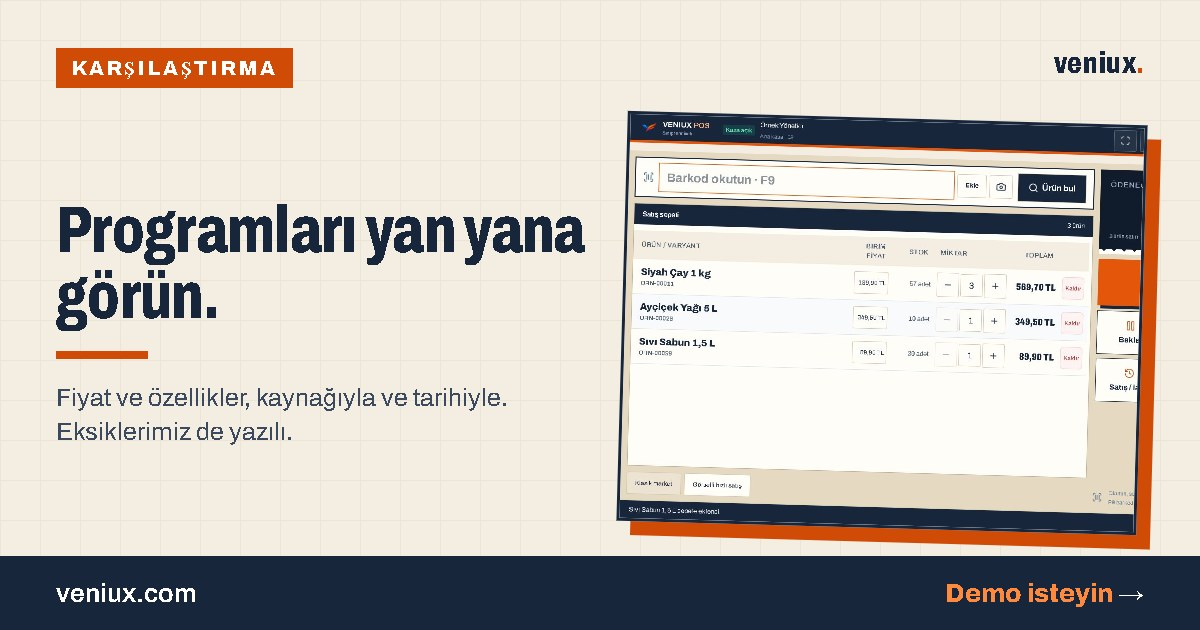
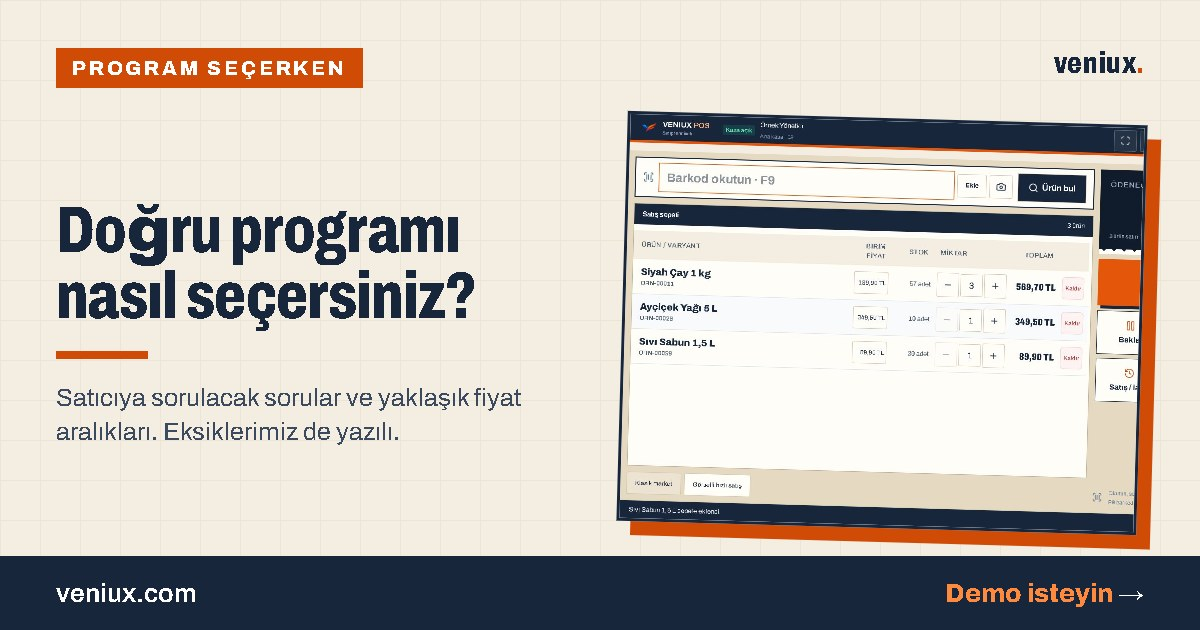
Site: karşılaştırma sayfası firma adı vermeden, program seçerken sorulacaklar olarak yeniden yazıldı

Changed region(s): [[0.0308, 0.3317, 0.4933, 0.5429], [0.0308, 0.6032, 0.4317, 0.7238], [0.0617, 0.0603, 0.3083, 0.1508]]

diff --git a/website-php/compare-view.php b/website-php/compare-view.php
@@ -1,76 +1,62 @@
 <?php declare(strict_types=1);
-// Karşılaştırma sayfası: yalnız rakiplerin kendi sitelerinde yazanı aktarır. Tarihli, kaynaklı, iddiasız.
-// "—" sayfada belirtilmemiş demektir; özelliğin olmadığı anlamına gelmez. Veniux sütunu kendi gerçek durumumuzdur.
-$asOf='15 Kasım 2026';
+// Program seçerken sayfası: firma adı vermez. Kategori bazında yaklaşık fiyat aralıkları ve her satıcıya sorulacak sorular;
+// Veniux'un cevapları kendi gerçek durumumuzdur (eksikler dahil). Aralıklar, firmaların kendi sitelerinde yazan fiyatlardan derlendi.
+$asOf='Kasım 2026';
 $plans=sitePlans();
 $vPrice=fn(string $k)=>siteMoney($plans[$k]['annual']);
-$prices=[
- ['Veniux Cloud','Başlangıç '.$vPrice('baslangic').' · İşletme '.$vPrice('isletme').' · Kurumsal '.$vPrice('kurumsal').'’den','Yıllık (3 aylık seçenek var)','KDV dahil','Sektör paketleri (hırdavat, züccaciye, restoran) genel pakete ek.'],
- ['BenimPOS','Ücretsiz Lite · 5.949,90 ₺ yıllık · 11.749,90 ₺ ömür boyu masaüstü','Yıllık, aylık (749,90 ₺) ya da tek ödeme','KDV dahil yazıyor','Sayfada ayrıca KDV muafiyetinden söz ediliyor.'],
- ['AysimaPOS','7.500 ₺','Yıllık','KDV dahil','30 gün deneme yazıyor.'],
- ['BarkodSis','Eko 16.500 · Standart 32.000 · Pro 58.000 ₺','Tek ödeme, süresiz lisans (masaüstü)','KDV dahil','Teknik destek ayrı satılıyor.'],
- ['Hesapbilir','Ofis 10.000 · Ofis Pos 65.000 ₺','Yıllık','KDV hariç','15 gün deneme yazıyor. Ön muhasebe ağırlıklı.'],
- ['Bizim Hesap','Temel Ticaret 8.352 · Tam Ticaret 10.560 ₺','Yıllık (yeni abone kampanyası)','KDV hariç','Normal fiyat 10.440 ve 13.200 ₺ + KDV. Ön muhasebe ağırlıklı.'],
- ['KolayBi Ofis','Standart 10.800 · PLUS 12.000 ₺','Yıllık (aylık seçenek de var)','KDV dahil','Ön muhasebe ağırlıklı.'],
- ['Paraşüt','9.024 ₺','Yıllık, ilk yıl kampanyası (31.12.2026’ya kadar)','KDV hariç','Ön muhasebe ağırlıklı.'],
+$ranges=[
+ ['Tek ödemeli masaüstü kasa programları','Yaklaşık 16.000 – 58.000 ₺, bir kez','Süresiz lisans; destek ve ek şube çoğunlukla ayrı ücretli. İnternet olmadan da çalışır.'],
+ ['Bulut kasa programları (abonelik)','Yaklaşık 6.000 – 7.500 ₺, yıllık, KDV dahil','Tarayıcıdan ya da uygulamadan; bazılarının ücretsiz sınırlı bir sürümü var.'],
+ ['Bulut ön muhasebe programları','Yaklaşık 8.000 – 12.000 ₺, yıllık, çoğunda KDV hariç','e-Fatura, cari ve banka odaklı; kasa ve depo derinliği sınırlı olabilir.'],
+ ['Veniux Cloud','Başlangıç '.$vPrice('baslangic').' · İşletme '.$vPrice('isletme').' · Kurumsal '.$vPrice('kurumsal').'’den, yıllık, KDV dahil','Kasa, depo, lot/miat ve sektör paketleri (hırdavat, züccaciye, restoran) ek.'],
 ];
-$cols=['Veniux','BenimPOS','AysimaPOS','BarkodSis','Hesapbilir'];
-$rows=[
- ['Çevrimdışı satış',                    ['Var, sınırlı','Var (masaüstü)','Yok (geçici sepet)','—','—']],
- ['Yazarkasa (ÖKC) entegrasyonu',        ['Yok (planlanıyor)','Var','Yok','Var','Var']],
- ['e-Arşiv / e-Fatura',                  ['Yok (planlanıyor)','e-Fatura var','Var','e-Fatura var','Var']],
- ['Lot / son kullanma tarihi takibi',    ['Var','SKT takibi var','—','Pro ve Plus’ta SKT','—']],
- ['Raf etiketi basımı',                  ['Var','Var','—','Var','—']],
- ['Restoran: masa ve adisyon',           ['Var (ek paket)','—','—','—','Var']],
- ['Birden çok depo veya şube',           ['Var','Şube yönetimi var','Çoklu şube var','Opsiyonel','—']],
- ['Telefon kamerasıyla barkod',          ['Var (Android)','Var','—','—','—']],
-];
-$sources=[
- ['BenimPOS','https://www.benimpos.com/fiyatlandirma/'],['AysimaPOS','https://aysimapos.com/'],['BarkodSis','https://www.barkodsis.com/paketler'],
- ['Hesapbilir','https://www.hesapbilir.com/fiyatlar'],['Bizim Hesap','https://bizimhesap.com/fiyatlar'],['KolayBi','https://www.kolaybi.com/fiyatlar'],['Paraşüt','https://www.parasut.com/on-muhasebe-fiyatlari'],
+$questions=[
+ ['İnternet kesilince satış yapılır mı?','Evet, sınırlı: nakit ve kart satışı cihazda saklanır, bağlantı gelince gönderilir. İndirim, iade, veresiye ve sadakat çevrimdışıyken kapalı.'],
+ ['Yazarkasa (ÖKC) ile çalışıyor mu?','Hayır, şu an yok; yol haritasında. Yasal fişi yazarkasanızdan kesmeye devam edersiniz.'],
+ ['e-Arşiv ve e-Fatura kesiyor mu?','Hayır, şu an yok; yol haritasında.'],
+ ['Lot ve son kullanma tarihi takibi var mı?','Evet, her pakette.'],
+ ['Raf etiketi basabiliyor mu?','Evet, 100 × 40 mm raf etiketi.'],
+ ['Restoran için masa, adisyon, mutfak ve reçeteli stok var mı?','Evet, Pide ve restoran paketinde (ek paket). Stok sipariş anında düşer.'],
+ ['Birden çok depo ya da şube yönetilebilir mi?','Evet: İşletme paketinde 3, Kurumsal’da 50 depo.'],
+ ['Telefon kamerasıyla barkod okunur mu?','Evet, Android uygulamasında.'],
+ ['Fiyata neler dahil, neler ayrı?','Fiyatlar KDV dahil ve yıllık sabit. Ek kullanıcı, depo, cihaz ve kasa ayrı; sektör paketleri genel pakete ek.'],
+ ['Önce denenebilir mi?','Evet, kendi ürünlerinizle 14 günlük deneme hesabı.'],
 ];
 ?>
 <article class="cm-page">
 <section class="hx-hero"><div class="hx-wrap">
-  <h1>Stok ve kasa programlarını yan yana görün.</h1>
-  <p class="hx-lead">Hangi programın size uyduğu işinize bağlı. Bu sayfada rakiplerin kendi sitelerinde yazan fiyat ve özellikleri, kaynağıyla ve tarihiyle topladık; kendi eksiklerimizi de gizlemedik.</p>
-  <p class="cm-asof"><b><?=e($asOf)?></b> tarihinde okunan bilgilerdir. Fiyatlar ve özellikler değişebilir; karar vermeden önce ilgili sitelere bakın.</p>
+  <h1>Doğru programı seçmek için ne sormalı?</h1>
+  <p class="hx-lead">Stok ve kasa programları birbirine benzer görünür, farklar ayrıntıda çıkar. Aşağıda piyasadaki türlerin yaklaşık fiyat aralıklarını ve her satıcıya sormanız gereken soruları, bizim cevaplarımızla birlikte yazdık. Eksiklerimizi de gizlemedik.</p>
+  <p class="cm-asof"><b><?=e($asOf)?></b> itibarıyla firmaların kendi sitelerinde yazan fiyatlardan derlenmiş yaklaşık aralıklardır. KDV, dönem ve kapsam programdan programa değişir; karar vermeden önce satıcının güncel fiyatını isteyin.</p>
 </div></section>
 
 <section class="hx-plain"><div class="hx-wrap">
-  <h2>Fiyat ve model</h2>
-  <div class="cm-scroll" tabindex="0" role="region" aria-label="Fiyat karşılaştırma tablosu">
+  <h2>Piyasada neler var, yaklaşık ne kadar?</h2>
+  <div class="cm-scroll" tabindex="0" role="region" aria-label="Program türleri ve yaklaşık fiyatları">
   <table class="cm-table">
-    <thead><tr><th scope="col">Program</th><th scope="col">Fiyat (₺)</th><th scope="col">Model</th><th scope="col">KDV</th><th scope="col">Not</th></tr></thead>
-    <tbody><?php foreach($prices as $i=>$r):?><tr<?=$i===0?' class="cm-us"':''?>><th scope="row"><?=e($r[0])?></th><td><?=e($r[1])?></td><td><?=e($r[2])?></td><td><?=e($r[3])?></td><td><?=e($r[4])?></td></tr><?php endforeach;?></tbody>
+    <thead><tr><th scope="col">Tür</th><th scope="col">Yaklaşık fiyat</th><th scope="col">Kısaca</th></tr></thead>
+    <tbody><?php foreach($ranges as $i=>$r):?><tr<?=$i===count($ranges)-1?' class="cm-us"':''?>><th scope="row"><?=e($r[0])?></th><td><?=e($r[1])?></td><td><?=e($r[2])?></td></tr><?php endforeach;?></tbody>
   </table></div>
-  <p class="cm-foot">Fiyatları yalnızca sayısal olarak yan yana koymak yanıltıcı olabilir: KDV, dönem ve pakete neyin dahil olduğu programdan programa değişiyor. Tek ödemeli masaüstü lisansla yıllık bulut aboneliği aynı şey değildir.</p>
+  <p class="cm-foot">Fiyatları yalnızca sayısal olarak yan yana koymak yanıltıcı olabilir. Tek ödemeli masaüstü lisansla yıllık bulut aboneliği aynı şey değildir; hangisinin işinize uyduğu, kaç şubeniz olduğuna ve internete ne kadar güvendiğinize bağlıdır.</p>
 </div></section>
 
 <section class="hx-plain"><div class="hx-wrap">
-  <h2>Özellikler</h2>
-  <p class="hx-lead">Her hücre, o programın fiyat ya da paket sayfasında yazana göre doldurulmuştur. <b>—</b>, sayfada belirtilmemiş demektir; özelliğin olmadığını göstermez. Ön muhasebe ağırlıklı programlar (Bizim Hesap, KolayBi, Paraşüt) kasa ve depo odağında olmadığı için bu tabloya alınmadı.</p>
-  <div class="cm-scroll" tabindex="0" role="region" aria-label="Özellik karşılaştırma tablosu">
+  <h2>Her satıcıya sorun, biz de cevaplayalım</h2>
+  <div class="cm-scroll" tabindex="0" role="region" aria-label="Sorular ve Veniux cevapları">
   <table class="cm-table cm-feat">
-    <thead><tr><th scope="col">Özellik</th><?php foreach($cols as $k=>$c):?><th scope="col"<?=$k===0?' class="cm-us"':''?>><?=e($c)?></th><?php endforeach;?></tr></thead>
-    <tbody><?php foreach($rows as $r):?><tr><th scope="row"><?=e($r[0])?></th><?php foreach($r[1] as $k=>$v):?><td<?=$k===0?' class="cm-us"':''?>><?=e($v)?></td><?php endforeach;?></tr><?php endforeach;?></tbody>
+    <thead><tr><th scope="col">Soru</th><th scope="col" class="cm-us">Veniux’un cevabı</th></tr></thead>
+    <tbody><?php foreach($questions as $q):?><tr><th scope="row"><?=e($q[0])?></th><td class="cm-us"><?=e($q[1])?></td></tr><?php endforeach;?></tbody>
   </table></div>
 </div></section>
 
 <section class="hx-plain"><div class="hx-wrap">
-  <h2>Kim için hangisi?</h2>
+  <h2>Veniux kime uyar, kime uymaz?</h2>
   <div class="hx-qa hx-qacards">
-    <div><p><b>Veniux size uyabilir:</b> depo, raf, lot ve son kullanma tarihini kasayla aynı yerde tutmak istiyorsanız; hırdavat, züccaciye ya da pide/restoran gibi bir sektörün ayrıntısı (koli ve birim, takım ve set, masa ve reçete) önemliyse; birden çok şube ya da depo varsa.</p></div>
-    <div><p><b>Başka bir program daha uygun olabilir:</b> yazarkasa (ÖKC) ya da e-Arşiv ve e-Fatura işlemlerini aynı programdan yapmanız gerekiyorsa. Veniux’ta bunlar şu an yok, yol haritasında. Yalnızca ücretsiz ya da tek ödemeli bir masaüstü kasa arıyorsanız da bazı rakipler orada daha ucuz.</p></div>
+    <div><p><b>Uyabilir:</b> depo, raf, lot ve son kullanma tarihini kasayla aynı yerde tutmak istiyorsanız; hırdavat, züccaciye ya da pide/restoran gibi bir sektörün ayrıntısı (koli ve birim, takım ve set, masa ve reçete) önemliyse; birden çok şube ya da depo varsa.</p></div>
+    <div><p><b>Şimdilik uymayabilir:</b> yazarkasa (ÖKC) ya da e-Arşiv ve e-Fatura işlemlerini aynı programdan yapmanız gerekiyorsa. Bunlar yol haritasında. Yalnızca ücretsiz ya da tek ödemeli basit bir masaüstü kasa arıyorsanız da başka seçenekler daha ucuz olabilir.</p></div>
     <div><p><b>Birlikte de kullanılır:</b> yasal fişinizi yazarkasanızdan kesmeye devam edip adisyon, mutfak ve stok için Veniux’u kullanabilirsiniz. Yükümlülüğünüzü mali müşavirinizle netleştirin.</p></div>
-    <div><p><b>Denemek ücretsiz:</b> kendi ürünlerinizle 14 günlük deneme hesabı açın, kasayı ve stoku birlikte görün.</p></div>
+    <div><p><b>Önce deneyin:</b> kendi ürünlerinizle 14 günlük deneme hesabı açın, kasayı ve stoku birlikte görün.</p></div>
   </div>
   <p class="hx-cta"><a class="hx-btn" href="/deneme">14 gün deneyin</a><a class="hx-textlink" href="/fiyatlandirma#hesapla">Toplam maliyeti hesaplayın</a></p>
-</div></section>
-
-<section class="hx-plain"><div class="hx-wrap">
-  <h2>Kaynaklar</h2>
-  <p class="cm-foot">Bilgiler <?=e($asOf)?> tarihinde aşağıdaki sayfalardan okundu. Yanlış ya da eski bir bilgi görürseniz <a href="/#iletisim">bize yazın</a>, düzeltelim.</p>
-  <ul class="cm-sources"><?php foreach($sources as $s):?><li><a href="<?=e($s[1])?>" rel="noopener nofollow" target="_blank"><?=e($s[0])?></a></li><?php endforeach;?></ul>
 </div></section>
 </article>

diff --git a/website-php/components/footer.php b/website-php/components/footer.php
@@ -10,7 +10,7 @@ require_once __DIR__.'/../whatsapp.php';
   <div class="vs-wrap vf-grid">
     <nav aria-label="Çözümler"><h2>Çözümler</h2><a href="/stok-yonetimi">Stok yönetimi</a><a href="/depo-yonetimi">Depo yönetimi</a><a href="/market-pos">Market ve POS</a><a href="/lot-miat-takibi">Lot ve miat takibi</a><a href="/barkodlu-stok-takibi">Barkodlu stok takibi</a><a href="/son-kullanma-tarihi-takibi">Son kullanma tarihi</a><a href="/el-terminali-depo-yonetimi">El terminali</a><a href="/yapay-zeka">Operasyon asistanı</a></nav>
     <nav aria-label="Sektörler"><h2>Sektörler</h2><a href="/market-stok-ve-kasa-programi">Market</a><a href="/hirdavat-stok-programi">Hırdavat</a><a href="/zuccaciye-barkod-programi">Züccaciye</a><a href="/pide-restoran-programi">Pide ve restoran</a><a href="/kafe-hizli-satis-programi">Kafe ve büfe</a><a href="/kirtasiye-stok-programi">Kırtasiye</a></nav>
-    <nav aria-label="Program"><h2>Program</h2><a href="/program-indir">İndir</a><a href="/fiyatlandirma">Fiyatlar</a><a href="/stok-programlari-karsilastirma">Karşılaştırma</a><a href="/guncelleme-notlari">Güncelleme notları</a><a href="/surum-arsivi">Sürüm arşivi</a><a href="/sunucu-kurulumu">Kurulum seçenekleri</a></nav>
+    <nav aria-label="Program"><h2>Program</h2><a href="/program-indir">İndir</a><a href="/fiyatlandirma">Fiyatlar</a><a href="/stok-programlari-karsilastirma">Program seçerken</a><a href="/guncelleme-notlari">Güncelleme notları</a><a href="/surum-arsivi">Sürüm arşivi</a><a href="/sunucu-kurulumu">Kurulum seçenekleri</a></nav>
     <nav aria-label="Hesap"><h2>Hesap</h2><a href="/giris">Giriş yap</a><a href="/kayit">Kayıt ol</a><a href="/#iletisim">Bize yazın</a><a href="<?=e(whatsappUrl())?>" target="_blank" rel="noopener noreferrer">WhatsApp destek</a><a href="https://discord.gg/WQyxdp7MKW" target="_blank" rel="noopener noreferrer">Discord topluluğu</a></nav>
     <nav aria-label="Hukuk"><h2>Hukuk</h2><a href="/kullanim-kosullari">Kullanım koşulları</a><a href="/gizlilik-politikasi">Gizlilik politikası</a><a href="/kvkk-aydinlatma">KVKK aydınlatma</a><a href="/cerez-politikasi">Çerez politikası</a><button type="button" data-cookie-open>Çerez tercihleri</button></nav>
   </div>

diff --git a/website-php/index.php b/website-php/index.php
@@ -46,7 +46,7 @@ foreach($growthPages as $route=>$guide){
     $pages[$route]['image_width']=1914;
     $pages[$route]['image_height']=860;
 }
-$pages['/stok-programlari-karsilastirma']=['title'=>'Stok ve Kasa Programları Karşılaştırması | Veniux','description'=>'BenimPOS, AysimaPOS, BarkodSis, Hesapbilir ve ön muhasebe programlarının fiyat ve özellikleri, kaynaklı ve tarihli olarak Veniux ile yan yana. Eksiklerimiz de yazılı.','label'=>'Karşılaştırma','headline'=>'Stok ve kasa programlarını yan yana görün.','intro'=>'Rakiplerin kendi sitelerinde yazan fiyat ve özellikler, kaynağıyla ve tarihiyle.','image'=>'','alt'=>''];
+$pages['/stok-programlari-karsilastirma']=['title'=>'Stok ve Kasa Programı Seçerken Ne Sormalı? | Veniux','description'=>'Stok ve kasa programı seçerken satıcıya sorulacak sorular, program türlerinin yaklaşık fiyat aralıkları ve Veniux’un cevapları. Eksiklerimiz de yazılı.','label'=>'Program seçerken','headline'=>'Doğru programı seçmek için ne sormalı?','intro'=>'Program türlerinin yaklaşık fiyatları ve satıcıya sorulacak sorular.','image'=>'','alt'=>''];
 $pages['/depo-yonetimi']['image']='product-warehouse-v4.jpg';
 $pages['/depo-yonetimi']['image_width']=1920;
 $pages['/depo-yonetimi']['image_height']=863;
